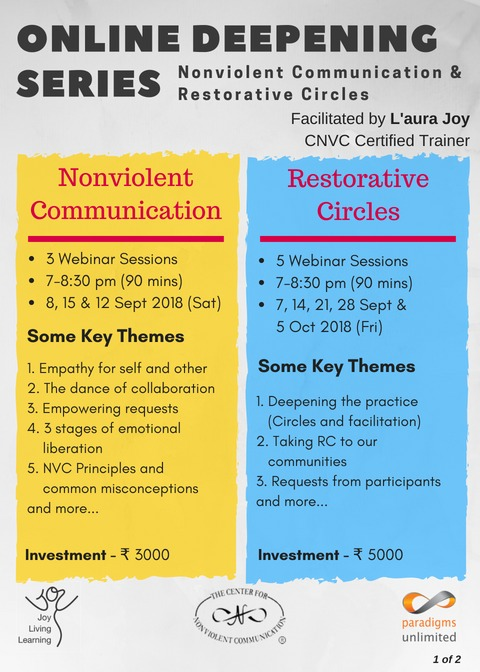
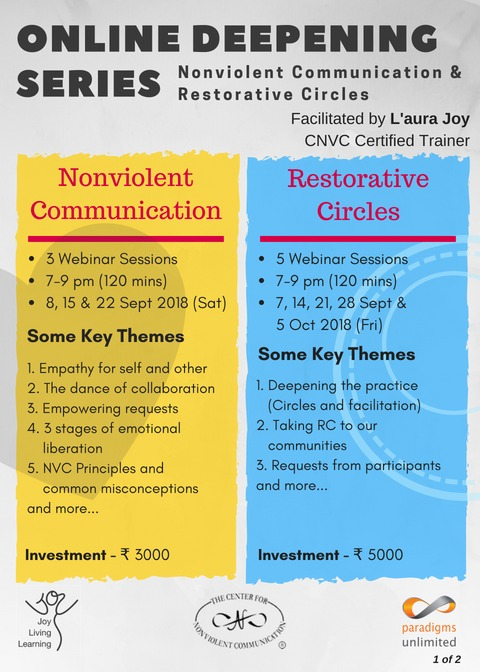
update

diff --git a/content/events/featured/2018/sept/online-deepening-series-non-violent-communication.md b/content/events/featured/2018/sept/online-deepening-series-non-violent-communication.md
@@ -6,7 +6,7 @@ category: 3.Featured
 abstract: A path of Nonviolence offers both a deeply-rooted consciousness of oneness, as well as very practical tools to live this more and more in our daily lives.
 date: 2018-09-08
 fromTime: 7.00pm
-toTime: 8.30pm
+toTime: 9.00pm
 type: event
 cost: ₹ 3,000 (inclusive of GST)
 tags:

diff --git a/content/events/featured/2018/sept/online-deepening-series-restorative-circles.md b/content/events/featured/2018/sept/online-deepening-series-restorative-circles.md
@@ -6,7 +6,7 @@ category: 3.Featured
 abstract: Restorative Circles (RC) offer ways for individuals and communities to establish connection, discover meaning and recover power on profound levels.
 date: 2018-09-07
 fromTime: 7.00pm
-toTime: 8.30pm
+toTime: 9.00pm
 type: event
 cost: ₹ 5,000 (inclusive of GST)
 tags:
